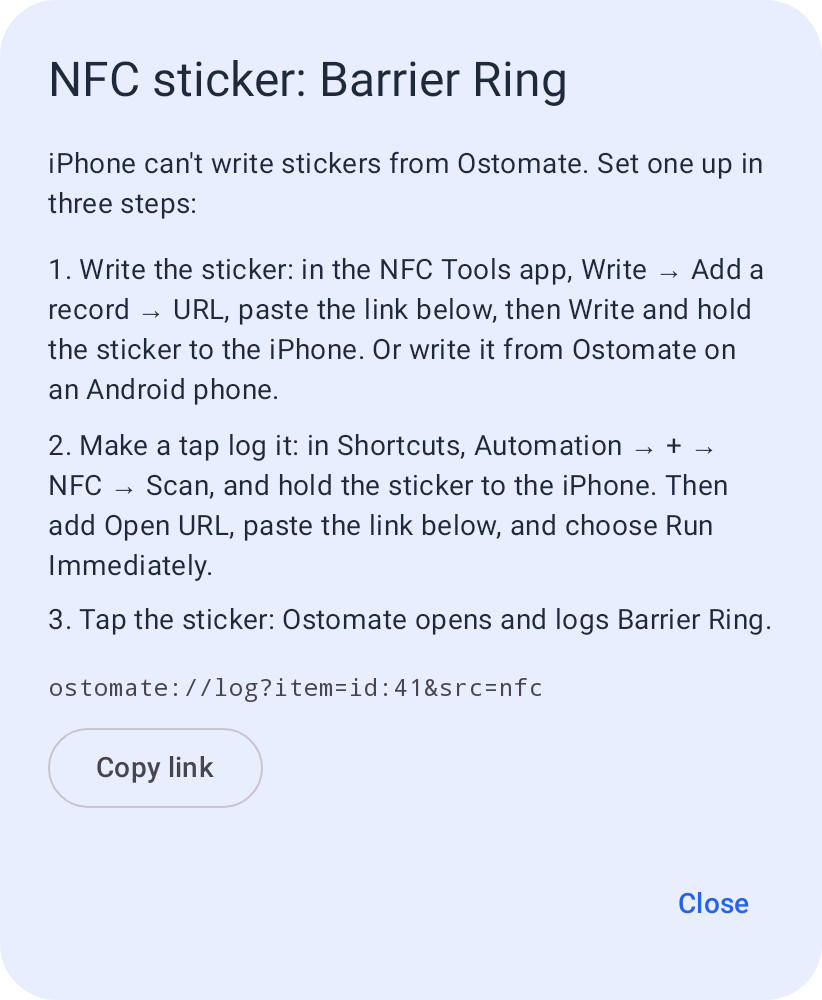
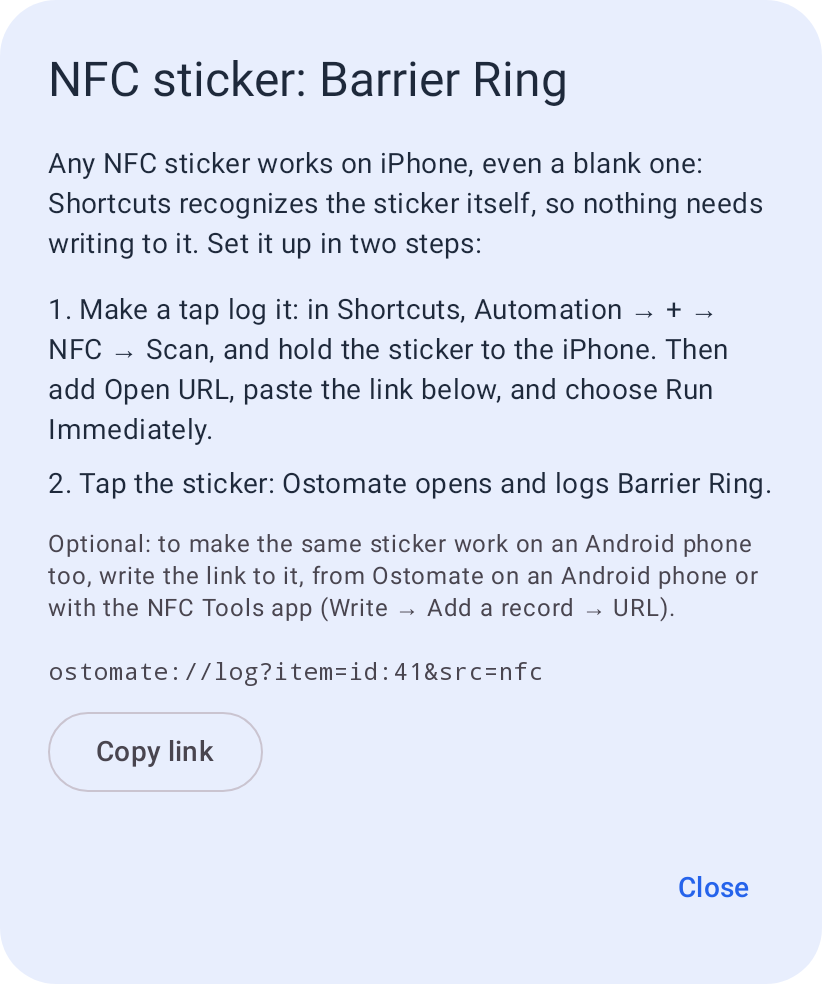
Make writing the sticker optional in the iPhone steps (#70)
Bobby's test showed a blank sticker plus a Shortcuts automation logs a
bag: Shortcuts keys on the sticker's own ID, not what it holds. So an
iPhone-only user needs no NFC Tools at all. The steps are now the
automation and a test tap; writing is a note for using the sticker on
an Android phone too.

diff --git a/composeApp/src/commonMain/kotlin/com/ostomate/app/ui/settings/StickerCard.kt b/composeApp/src/commonMain/kotlin/com/ostomate/app/ui/settings/StickerCard.kt
@@ -33,9 +33,9 @@ import com.ostomate.app.resources.Res
 import com.ostomate.app.resources.sticker_close
 import com.ostomate.app.resources.sticker_copy_link
 import com.ostomate.app.resources.sticker_ios_intro
+import com.ostomate.app.resources.sticker_ios_optional_write
 import com.ostomate.app.resources.sticker_ios_step_automation
 import com.ostomate.app.resources.sticker_ios_step_test
-import com.ostomate.app.resources.sticker_ios_step_write
 import com.ostomate.app.resources.sticker_link_copied
 import com.ostomate.app.resources.sticker_locked
 import com.ostomate.app.resources.sticker_lost_contact
@@ -147,11 +147,15 @@ private fun StepsBody(
     Column(modifier = Modifier.verticalScroll(rememberScrollState())) {
         Text(stringResource(Res.string.sticker_ios_intro), style = body)
         Spacer(Modifier.height(12.dp))
-        Text(stringResource(Res.string.sticker_ios_step_write), style = body)
-        Spacer(Modifier.height(8.dp))
         Text(stringResource(Res.string.sticker_ios_step_automation), style = body)
         Spacer(Modifier.height(8.dp))
         Text(stringResource(Res.string.sticker_ios_step_test, item.supply.name), style = body)
+        Spacer(Modifier.height(12.dp))
+        Text(
+            stringResource(Res.string.sticker_ios_optional_write),
+            style = MaterialTheme.typography.bodySmall,
+            color = MaterialTheme.colorScheme.onSurfaceVariant,
+        )
         Spacer(Modifier.height(16.dp))
         SelectionContainer {
             Text(

diff --git a/planning/05-dev-plan.md b/planning/05-dev-plan.md
@@ -448,6 +448,9 @@ reading and writing stickers happen on the phone only, with no network.
   `&src=nfc` link. In-app writing on iPhone needs Apple's NFC capability, which needs the
   paid Developer account, so it waits for enrollment.
   Done as a dialog from the row's **NFC sticker** button (`StickerCard`, strings EN + ES).
+  Writing the sticker is optional on iPhone (Bobby, 2026-11-20): his test showed a blank
+  sticker plus the automation logs, because Shortcuts keys on the sticker's own ID. The steps
+  are now the automation and a test tap; writing is a note for Android use.
 - [x] A custom item's sticker still works after a backup restore on a new phone: test that
   restore keeps supply ids (the link holds the id). `customItemStickerSurvivesRestore` (JVM +
   iOS sim): a custom item with id 41 restores onto a phone with its own custom item, and both
